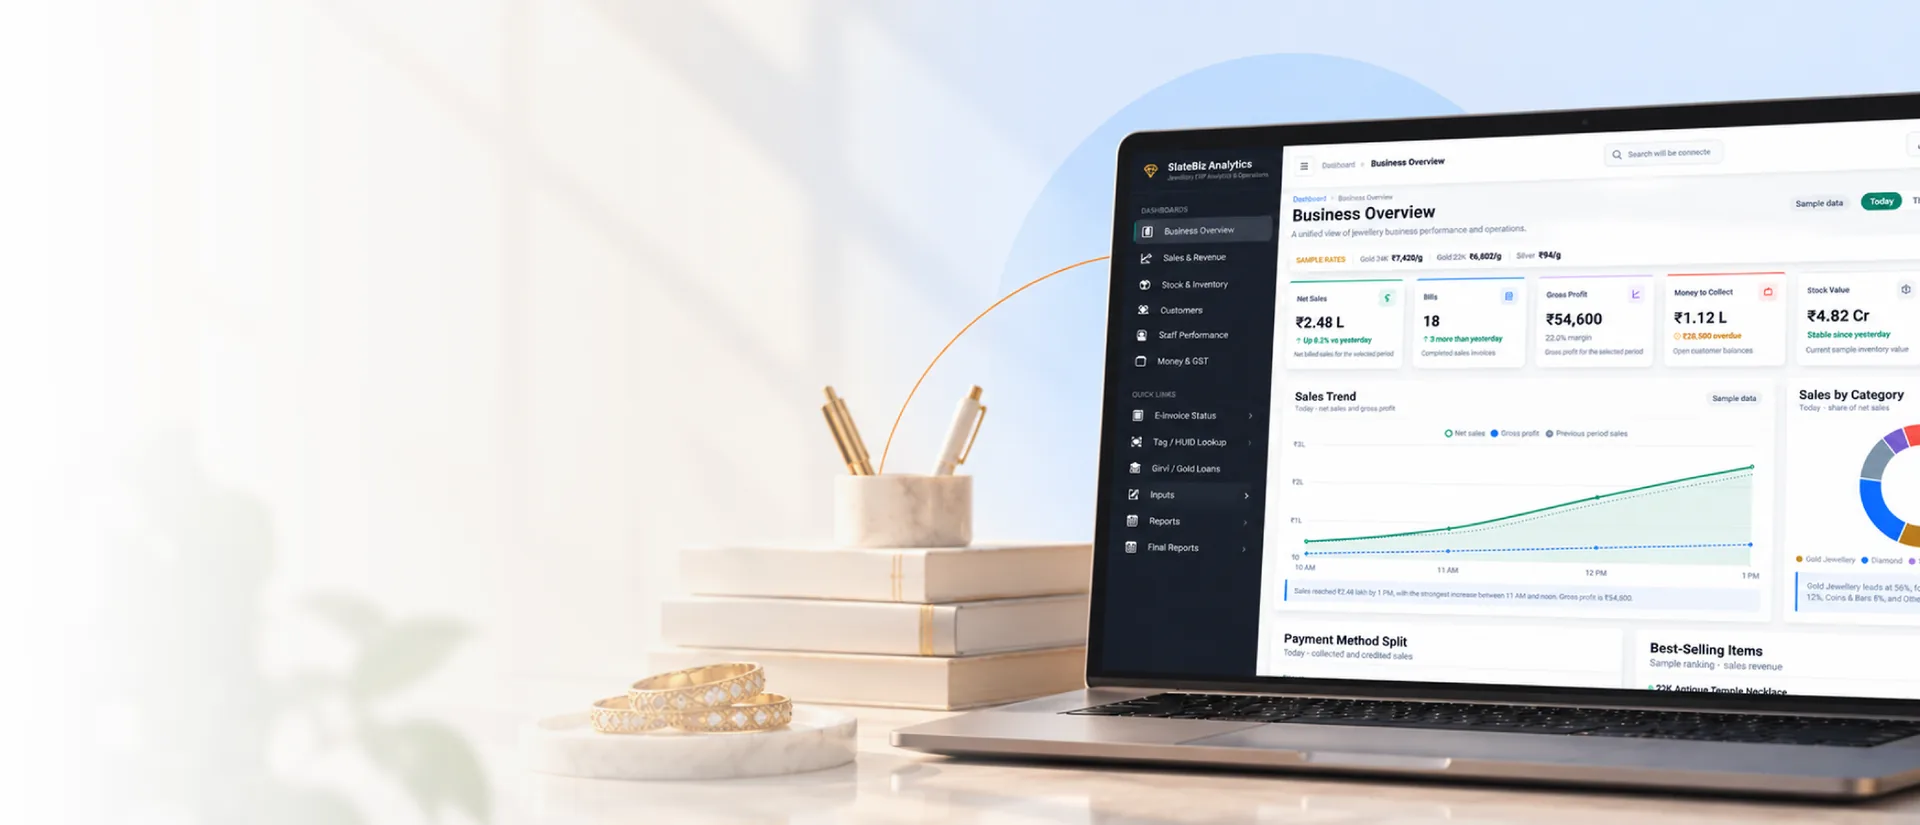
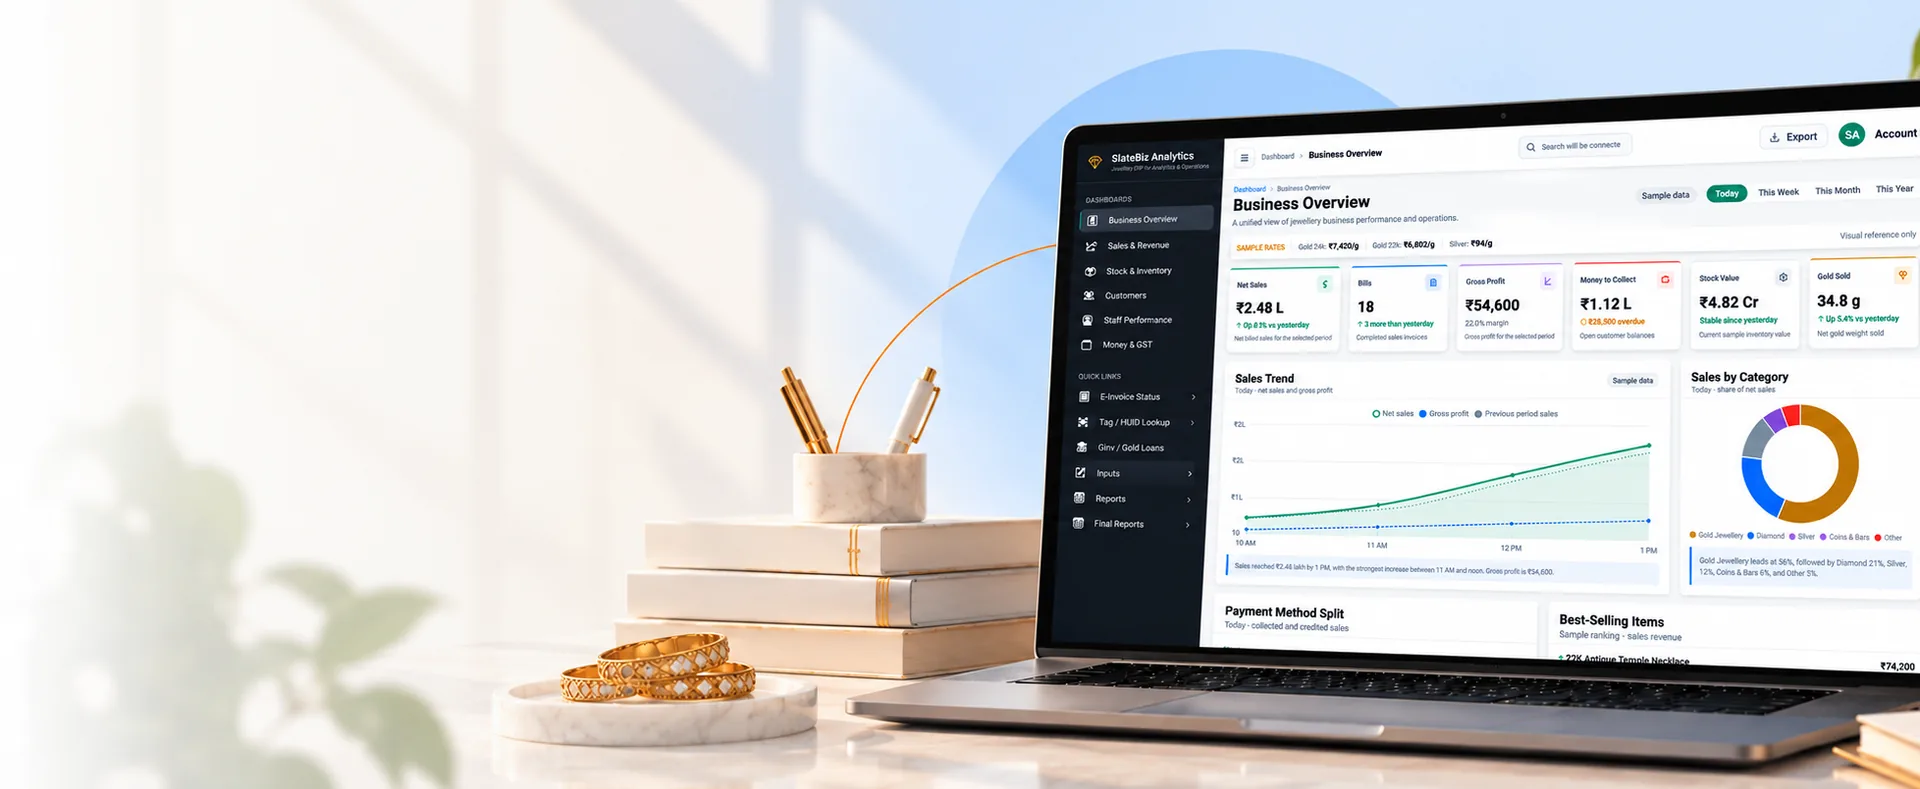
screen

Changed region(s): [[0.0625, 0.0, 1.0, 1.0], [0.7188, 0.5171, 0.8438, 0.5475]]

diff --git a/src/pages/XJewelERP.tsx b/src/pages/XJewelERP.tsx
@@ -2,6 +2,7 @@ import { Check, X, ChevronRight } from 'lucide-react';
 import { useState, useEffect, useRef } from 'react';
 import { modules } from '../data/productMatrix';
 import ProductRelatedArticles from '../components/ProductRelatedArticles';
+import CompanyLogosSection from '../components/CompanyLogosSection';
 import { Link } from 'react-router-dom';
 
 export default function XJewelERP() {
@@ -23,34 +24,33 @@ function HeroSection() {
   return (
     <section className="relative overflow-hidden bg-white">
       {/*
-        Phone + tablet + small laptop (<1280): stacked
-        MacBook / 27–32" / 4K (≥1280): 50/50 grid — text always left half, laptop right half
+        Phone + tablet + small laptop (<1280): one hero with copy over image
+        Desktop (≥1280): 50/50 — text left, laptop right (new jewel hero art)
       */}
 
-      {/* —— Mobile / tablet (<1280): one hero — copy over the image —— */}
+      {/* —— Mobile / tablet (<1280) —— */}
       <div className="relative xl:hidden">
-        <div className="relative min-h-[min(640px,calc(100svh-var(--site-header-height)))] overflow-hidden">
+        <div className="relative min-h-[min(560px,calc(100svh-var(--site-header-height)))] overflow-hidden sm:min-h-[min(620px,calc(100svh-var(--site-header-height)))]">
           <img
             src="/jewelbiz-hero-bg-1920.webp"
             alt=""
             width={1920}
-            height={825}
+            height={789}
             decoding="async"
             fetchPriority="high"
-            className="absolute inset-0 h-full w-full object-cover object-[72%_center] sm:object-[78%_center]"
+            className="absolute inset-0 h-full w-full object-cover object-[88%_42%]"
             aria-hidden
           />
 
-          {/* Keep type readable over the photo */}
           <div
             className="absolute inset-0 z-[1]"
             style={{
               background:
-                'linear-gradient(180deg, rgba(255,255,255,0.94) 0%, rgba(255,255,255,0.88) 42%, rgba(255,255,255,0.55) 68%, rgba(255,255,255,0.2) 100%)',
+                'linear-gradient(180deg, rgba(255,255,255,0.94) 0%, rgba(255,255,255,0.88) 48%, rgba(255,255,255,0.45) 72%, rgba(255,255,255,0.15) 100%)',
             }}
           />
 
-          <div className="relative z-10 mx-auto flex min-h-[min(640px,calc(100svh-var(--site-header-height)))] max-w-xl flex-col justify-center px-4 py-12 text-center sm:max-w-2xl sm:px-6 sm:py-14">
+          <div className="relative z-10 mx-auto flex min-h-[min(560px,calc(100svh-var(--site-header-height)))] max-w-xl flex-col justify-center px-4 py-12 text-center sm:min-h-[min(620px,calc(100svh-var(--site-header-height)))] sm:max-w-2xl sm:px-6 sm:py-14">
             <span className="mx-auto inline-flex items-center rounded-full border border-[#0C69B6]/40 bg-white/95 px-3.5 py-1.5 text-[12px] font-medium text-[#0C69B6] shadow-sm sm:text-[13px]">
               JewelBiz ERP
             </span>
@@ -88,18 +88,16 @@ function HeroSection() {
         </div>
       </div>
 
-      {/* —— Desktop grid (≥1280px): left copy / right product, same ratio every size —— */}
-      <div
-        className="relative hidden min-h-[min(820px,calc(100svh-var(--site-header-height)))] xl:grid xl:grid-cols-2"
-      >
+      {/* —— Desktop (≥1280): keep full laptop analytics in frame —— */}
+      <div className="relative hidden min-h-[min(700px,calc(100svh-var(--site-header-height)))] xl:grid xl:grid-cols-2 2xl:min-h-[min(760px,calc(100svh-var(--site-header-height)))]">
         <img
           src="/jewelbiz-hero-bg.webp"
           alt=""
-          width={2560}
-          height={1100}
+          width={1956}
+          height={804}
           decoding="async"
           fetchPriority="high"
-          className="absolute inset-0 h-full w-full object-cover object-right"
+          className="absolute inset-0 h-full w-full object-cover object-[100%_45%]"
           aria-hidden
         />
 
@@ -167,57 +165,9 @@ function HeroSection() {
           </div>
         </div>
 
-        {/* Right half reserved for the product visual (image shows through) */}
         <div className="relative z-10" aria-hidden />
       </div>
     </section>
-  );
-}
-
-function CompanyLogosSection() {
-  const logos = [
-    '/hissaria gems private limited.webp',
-    '/Mahalaxmi.webp',
-    '/BTR.webp',
-    '/b l hissaria jewellers.webp',
-    '/Bhagwati Ayurveda & Panchakarma Research Centre.webp',
-    '/Parmeshwari Newborn & Children Hospital - Abohar.webp',
-    '/Skyy High Placement.webp',
-    '/Shiv General Store.webp',
-  ];
-
-  return (
-    <div className="relative z-20 py-12 bg-white w-full overflow-hidden">
-      <p className="text-center text-xs font-semibold text-gray-500 uppercase tracking-widest mb-8">
-        Trusted by 17,000+ founders & business owners
-      </p>
-      <div className="overflow-hidden">
-        <div className="company-marquee gap-12 items-center">
-          {logos.map((src, idx) => (
-            <div key={`jewel-logo-a-${idx}`} className="flex items-center justify-center shrink-0 p-3 w-40 h-20">
-              <img src={src} alt="Client logo" loading="lazy" decoding="async" width={160} height={80} className="max-w-full max-h-full object-contain mix-blend-multiply" />
-            </div>
-          ))}
-          {logos.map((src, idx) => (
-            <div key={`jewel-logo-b-${idx}`} className="flex items-center justify-center shrink-0 p-3 w-40 h-20">
-              <img src={src} alt="Client logo" loading="lazy" decoding="async" width={160} height={80} className="max-w-full max-h-full object-contain mix-blend-multiply" />
-            </div>
-          ))}
-        </div>
-      </div>
-
-      <style>{`
-        @keyframes marquee {
-          0% { transform: translateX(0); }
-          100% { transform: translateX(-50%); }
-        }
-        .company-marquee {
-          display: inline-flex;
-          animation: marquee 22s linear infinite;
-          will-change: transform;
-        }
-      `}</style>
-    </div>
   );
 }
 
@@ -425,7 +375,7 @@ function BusinessModelSectionWithImages() {
   ];
 
   return (
-    <section className="w-full bg-white py-14 sm:py-20 px-4 sm:px-6 lg:px-8">
+    <section className="w-full bg-white px-4 pb-14 pt-8 sm:px-6 sm:pb-20 sm:pt-10 lg:px-8">
       <div className="mx-auto max-w-[980px]">
         <div className="mb-10 text-center sm:mb-16">
           <span className="mb-5 inline-block rounded-full border border-slate-200 bg-[#F3F4F6] px-4 py-1.5 text-[12px] font-medium tracking-wide text-slate-700 sm:mb-6 sm:text-[13px]">

diff --git a/src/pages/Home.tsx b/src/pages/Home.tsx
@@ -1,11 +1,12 @@
 import { useState, useEffect, useRef, useLayoutEffect } from 'react';
 import { Link } from 'react-router-dom';
+import CompanyLogosSection from '../components/CompanyLogosSection';
 
 export default function Home() {
   return (
     <div className="min-h-screen w-full">
       <HeroSection />
-      <CompanyLogosSection />
+      <CompanyLogosSection className="bg-[#F7F7F5]" />
       <WhyWeExistSection />
       <ProductsSection />
       <FoundationSection />
@@ -65,56 +66,9 @@ function HeroSection() {
   );
 }
 
-function CompanyLogosSection() {
-  const logos = [
-    '/hissaria gems private limited.webp',
-    '/Mahalaxmi.webp',
-    '/BTR.webp',
-    '/b l hissaria jewellers.webp',
-    '/Bhagwati Ayurveda & Panchakarma Research Centre.webp',
-    '/Parmeshwari Newborn & Children Hospital - Abohar.webp',
-    '/Skyy High Placement.webp',
-    '/Shiv General Store.webp',
-  ];
-
-  return (
-    <div className="relative z-20 py-12 bg-[#F7F7F5] w-full overflow-hidden">
-      <p className="text-center text-xs font-semibold text-gray-500 uppercase tracking-widest mb-8">
-        Trusted by 17,000+ founders & business owners
-      </p>
-      <div className="overflow-hidden">
-        <div className="company-marquee gap-12 items-center">
-          {logos.map((src, idx) => (
-            <div key={`logo-a-${idx}`} className="flex items-center justify-center shrink-0 p-3 w-40 h-20">
-              <img src={src} alt="Client logo" loading="lazy" decoding="async" width={160} height={80} className="max-w-full max-h-full object-contain mix-blend-multiply" />
-            </div>
-          ))}
-          {logos.map((src, idx) => (
-            <div key={`logo-b-${idx}`} className="flex items-center justify-center shrink-0 p-3 w-40 h-20">
-              <img src={src} alt="Client logo" loading="lazy" decoding="async" width={160} height={80} className="max-w-full max-h-full object-contain mix-blend-multiply" />
-            </div>
-          ))}
-        </div>
-      </div>
-
-      <style>{`
-        @keyframes marquee {
-          0% { transform: translateX(0); }
-          100% { transform: translateX(-50%); }
-        }
-        .company-marquee {
-          display: inline-flex;
-          animation: marquee 22s linear infinite;
-          will-change: transform;
-        }
-      `}</style>
-    </div>
-  );
-}
-
 function WhyWeExistSection() {
   return (
-    <section className="w-full bg-[#F7F7F5] pt-14 pb-16">
+    <section className="w-full bg-[#F7F7F5] pt-8 pb-16 sm:pt-10">
       <div className="max-w-[1120px] mx-auto px-4 sm:px-6 lg:px-8">
         <div className="grid grid-cols-1 md:grid-cols-[465px_1fr] gap-10 items-start">
           <img

diff --git a/src/components/CompanyLogosSection.tsx b/src/components/CompanyLogosSection.tsx
@@ -1,0 +1,76 @@
+const DEFAULT_LOGOS = [
+  '/hissaria gems private limited.webp',
+  '/Mahalaxmi.webp',
+  '/BTR.webp',
+  '/b l hissaria jewellers.webp',
+  '/Bhagwati Ayurveda & Panchakarma Research Centre.webp',
+  '/Parmeshwari Newborn & Children Hospital - Abohar.webp',
+  '/Skyy High Placement.webp',
+  '/Shiv General Store.webp',
+];
+
+type CompanyLogosSectionProps = {
+  logos?: string[];
+  className?: string;
+};
+
+export default function CompanyLogosSection({
+  logos = DEFAULT_LOGOS,
+  className = 'bg-white',
+}: CompanyLogosSectionProps) {
+  return (
+    <div className={`relative z-20 w-full overflow-hidden py-7 sm:py-8 md:py-9 ${className}`}>
+      <p className="mb-5 text-center text-xs font-semibold uppercase tracking-widest text-gray-500 sm:mb-6 sm:text-[13px]">
+        Trusted by 17,000+ founders & business owners
+      </p>
+      <div className="overflow-hidden">
+        <div className="company-logos-marquee items-center gap-6 sm:gap-8 md:gap-10">
+          {logos.map((src, idx) => (
+            <div
+              key={`logo-a-${idx}`}
+              className="flex h-24 w-44 shrink-0 items-center justify-center p-1.5 sm:h-28 sm:w-52 md:h-32 md:w-56"
+            >
+              <img
+                src={src}
+                alt="Client logo"
+                loading="lazy"
+                decoding="async"
+                width={256}
+                height={128}
+                className="max-h-full max-w-full object-contain mix-blend-multiply"
+              />
+            </div>
+          ))}
+          {logos.map((src, idx) => (
+            <div
+              key={`logo-b-${idx}`}
+              className="flex h-24 w-44 shrink-0 items-center justify-center p-1.5 sm:h-28 sm:w-52 md:h-32 md:w-56"
+            >
+              <img
+                src={src}
+                alt="Client logo"
+                loading="lazy"
+                decoding="async"
+                width={256}
+                height={128}
+                className="max-h-full max-w-full object-contain mix-blend-multiply"
+              />
+            </div>
+          ))}
+        </div>
+      </div>
+
+      <style>{`
+        @keyframes company-logos-marquee {
+          0% { transform: translateX(0); }
+          100% { transform: translateX(-50%); }
+        }
+        .company-logos-marquee {
+          display: inline-flex;
+          animation: company-logos-marquee 22s linear infinite;
+          will-change: transform;
+        }
+      `}</style>
+    </div>
+  );
+}
